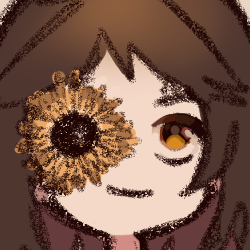
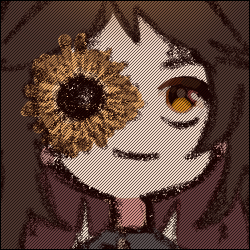
Add files via upload

diff --git a/fanart/pages/BeatumPopcorn/BeautifulWhiskey.html b/fanart/pages/BeatumPopcorn/BeautifulWhiskey.html
@@ -1,0 +1,119 @@
+<!DOCTYPE html>
+<html>
+<head>
+<style>
+ body {
+  background-image: url("../../../images/fanartbackgrounds/beatumbackground07.png");
+  background-size: cover;
+  background-attachment: fixed;
+  }
+
+ .headercontainer {
+  display: flex;
+  text-align: left;
+  }
+
+  div.wrapper {
+  flex: 1;
+  }
+
+ .headerpfp {
+  float: left;
+  margin-left: 4.50%;
+  margin-right: 1%;
+  margin-top: 0.80%;
+  }
+ 
+ .signature {
+  text-align: right;
+  font-style: italic;
+  margin-right: 4.50%;
+  }
+ </style>
+<meta name="viewport" content="width=device-width, initial-scale=1" />
+<meta property="og:title" content="June S. Sai.net: Beautiful Whiskey" />
+<meta property="og:url" content="https://junessai.net/" />
+<meta property="og:image" content="https://junessai.net/images/badasslogo.png" />
+<meta property="og:description" content="He is the most beautiful, yet despicable man you'll ever meet in your life." />
+<title>Beautiful Whiskey</title>
+<link rel="stylesheet" href="../../../style.css"> 
+<link rel="icon" type="image/png" href="../../../images/favicon.png">
+</head>
+
+<body>
+<div class="logocontainer">
+ <a href="../../../index.html">
+ <img src="../../../images/badasslogo.png" class="logo"></a>
+ </div>
+
+<div id="buttoncontainer" class="buttoncontainer">
+</div>
+
+<script src="../../../js/menu4.js"></script>
+
+<div>
+<div class="headercontainer">
+<div class="wrapper">
+<img src="../../images/PFPs/JuneSSaiPFP2.png" class="headerpfp">
+<h1 style="text-align:left;">Beautiful Whiskey</h1>
+<p style="text-align:left;">Posted on November 17, 2022, 22:35</p>
+<p style="text-align:left;">Last updated on November 17, 2022, 22:35</p>
+<p style="text-align:left;">Written By June S. Sai</p>
+</div>
+</div>
+<br>
+<a href="../../images/BeatumPopcorn/BeautifulWhiskey01.png" target="_blank">
+<img src="../../images/BeatumPopcorn/BeautifulWhiskey01.png" width="1000"></a>
+<br>
+<a href="../../images/BeatumPopcorn/BeautifulWhiskey02.png" target="_blank">
+<img src="../../images/BeatumPopcorn/BeautifulWhiskey02.png" width="1000"></a>
+<br>
+<a href="../../images/BeatumPopcorn/BeautifulWhiskey03.png" target="_blank">
+<img src="../../images/BeatumPopcorn/BeautifulWhiskey03.png" width="1000"></a>
+<br>
+<a href="../../images/BeatumPopcorn/BeautifulWhiskey04.png" target="_blank">
+<img src="../../images/BeatumPopcorn/BeautifulWhiskey04.png" width="1000"></a>
+<h1>June's Comment</h1>
+<p>It's been a while since I updated this section, but it shouldn't be a surprise that once again</p>
+<p>it's BeatumPopcorn doing fanart of my character considering that 90% of the Fanart Section</p>
+<p>is mostly his art, and as usual, he keeps blowing my mind on how good the stuff he makes looks.</p>
+<br>
+<p>He's been into a "Manga Mood" he told me, and he decided to draw Big Whiskey in a very manga style</p>
+<p>and it looks absolutely fucking brilliant</p>
+<br>
+<p>Big Whiskey was always supposed to be a depressing/melancholic character since he's supposed to be</p>
+<p>a more interesting version of me. He was made to have a very friendly and bright appearance that would</p>
+<p>heavily contrast with his rather abrasive and depressive personality and overall mood, and somehow</p>
+<p>I think Beatum does a better job at presenting this than I ever could</p>
+<br>
+<p>He mentioned himself that he likes drawing my character exactly due to the fact that Big Whiskey</p>
+<p>is very melancholic, he likes how sad he is, and Beatum captures this feeling perfectly</p>
+<br>
+<p>I'm just staring at this, and I'm just amazed how much sentiment he put into this piece</p>
+<p>I just look into his face, and the little smile and his beady eyes makes it feel like someone</p>
+<p>trying to hide hurt under a fake smile, and I fucking love it</p>
+<p>The way he managed to make the messy hair he has feel more natural while still retaining the shape</p>
+<p>I usually draw Big Whiskey with, and the sketchy line work, this is all pretty briliant</p>
+<br>
+<p>This is legitimately one of my favorite pieces I've ever received, and since I'm already in a very</p>
+<p>sad mood, it fits me perfectly.</p>
+<br>
+<p>I apologize if I couldn't say more, my head's spinning as of writting this, and I need some rest</p>
+<p>But don't you worry, there is more to come</p>
+<br>
+<p>But other than that, that's it for now, I'll see you when I close my eyes.</p>
+<br>
+<p class="signature" style="text-decoration:underline;">Still Tired</p>
+<p class="signature">-June S. Sai</p>
+</div>
+
+</div>
+<div class="buttoncontainer">
+<a href="../../../fanart/fanartmain.html">
+<img src="../../../images/buttons/fanartbutton.png" class="button"></a>
+</div>
+
+<!--Do you ever wonder why people never like you the same way you do them?-->
+  
+  </body>
+</html>

diff --git a/fanart/pages/BeatumPopcorn/MangaWhiskey.html b/fanart/pages/BeatumPopcorn/MangaWhiskey.html
@@ -1,0 +1,106 @@
+<!DOCTYPE html>
+<html>
+<head>
+<style>
+ body {
+  background-image: url("../../../images/fanartbackgrounds/beatumbackground07.png");
+  background-size: cover;
+  background-attachment: fixed;
+  }
+
+ .headercontainer {
+  display: flex;
+  text-align: left;
+  }
+
+  div.wrapper {
+  flex: 1;
+  }
+
+ .headerpfp {
+  float: left;
+  margin-left: 4.50%;
+  margin-right: 1%;
+  margin-top: 0.80%;
+  }
+ 
+ .signature {
+  text-align: right;
+  font-style: italic;
+  margin-right: 4.50%;
+  }
+ </style>
+<meta name="viewport" content="width=device-width, initial-scale=1" />
+<meta property="og:title" content="June S. Sai.net: Manga Whiskey" />
+<meta property="og:url" content="https://junessai.net/" />
+<meta property="og:image" content="https://junessai.net/images/badasslogo.png" />
+<meta property="og:description" content="Funnily enough, I rarely read anything." />
+<title>Manga Whiskey</title>
+<link rel="stylesheet" href="../../../style.css"> 
+<link rel="icon" type="image/png" href="../../../images/favicon.png">
+</head>
+
+<body>
+<div class="logocontainer">
+ <a href="../../../index.html">
+ <img src="../../../images/badasslogo.png" class="logo"></a>
+ </div>
+
+<div id="buttoncontainer" class="buttoncontainer">
+</div>
+
+<script src="../../../js/menu4.js"></script>
+
+<div>
+<div class="headercontainer">
+<div class="wrapper">
+<img src="../../images/PFPs/JuneSSaiPFP2.png" class="headerpfp">
+<h1 style="text-align:left;">Manga Whiskey</h1>
+<p style="text-align:left;">Posted on November 17, 2022, 22:35</p>
+<p style="text-align:left;">Last updated on November 17, 2022, 22:35</p>
+<p style="text-align:left;">Written By June S. Sai</p>
+</div>
+</div>
+<br>
+<a href="../../images/BeatumPopcorn/MangaWhiskey01.png" target="_blank">
+<img src="../../images/BeatumPopcorn/MangaWhiskey01.png" width="1000"></a>
+<br>
+<a href="../../images/BeatumPopcorn/MangaWhiskey02.png" target="_blank">
+<img src="../../images/BeatumPopcorn/MangaWhiskey02.png" width="1000"></a>
+<h1>June's Comment</h1>
+<p>Here we are again, and once again, it's Beatum bringing me more fanart stuff</p>
+<p>And you remember in the last post he said he was in a manga mood?</p>
+<br>
+<p>We've gone full anime this time</p>
+<br>
+<p>I absolutely love Big Whiskey with his hair tied, he looks incredibly cool with it</p>
+<p>and I also keep forgetting to mention it, but Beatum always simplifies his jacket whenever</p>
+<p>he draws him, there's no hood anymore, neither there are the headphones and the little strings either</p>
+<p>Ironically, despite removing details, his jacket feels more futuristic than the one I draw him with</p>
+<p>It looks really dope.</p>
+<br>
+<p>The other characters were designed on the spot by Beatum, and they all look incredibly sick</p>
+<p>Although I wish Caira was in here too</p>
+<br>
+<p>Oh, and here's a thing that my good friend Sage made with this art</p>
+<a href="../../images/BeatumPopcorn/MangaWhiskeySageThing.png" target="_blank">
+<img src="../../images/BeatumPopcorn/MangaWhiskeySageThing.png" width="1000"></a>
+<p>I have yet to turn Sage into a red paste for this one.</p>
+<br>
+<p>But other than that, that's it</p>
+<p>I'll see you when I stop crying.</p>
+<br>
+<p class="signature" style="text-decoration:underline;">Still Fighting</p>
+<p class="signature">-June S. Sai</p>
+</div>
+
+</div>
+<div class="buttoncontainer">
+<a href="../../../fanart/fanartmain.html">
+<img src="../../../images/buttons/fanartbutton.png" class="button"></a>
+</div>
+
+<!--Empty heart, full head.-->
+  
+  </body>
+</html>

diff --git a/fanart/fanartmain.html b/fanart/fanartmain.html
@@ -3,7 +3,7 @@
 <head>
 <style>
  body {
-  background-image: url("../images/fanartbackgrounds/ramenwaterbottlebackground.png");
+  background-image: url("../images/fanartbackgrounds/beatumbackground07.png");
   background-size: cover;
   background-attachment: fixed;
   }
@@ -53,7 +53,7 @@
 
 <div>
 <h1>Fanart Section</h1>
-<p>Last Update: September 29, 2022, 20:20<span class="NewText"> (New!)</span></p>
+<p>Last Update: November 17, 2022, 22:35<span class="NewText"> (New!)</span></p>
   <br>
   <p>"Oh yeah, Big Whiskey is looking pretty HD" -Octo</p>
   <br>
@@ -65,6 +65,12 @@
 	<h1>BeatumPopcorn</h1>
 	<p><a href="https://beatumpopcorn.newgrounds.com/" target="_blank" class="hyperlink">Newgrounds</a><span>,</span>
 	<span><a href="https://twitter.com/BeatumPopcorn/" target="_blank" class="hyperlink">Twitter</span></p>
+
+        <a href="../fanart/pages/BeatumPopcorn/MangaWhiskey.html">
+	<img src="../fanart/thumbs/BeatumPopcorn/MangaWhiskeyThumb.png" class="artthumbs"></a>
+
+        <a href="../fanart/pages/BeatumPopcorn/BeautifulWhiskey.html">
+	<img src="../fanart/thumbs/BeatumPopcorn/BeautifulWhiskeyThumb.png" class="artthumbs"></a>
 
 	<a href="../fanart/pages/BeatumPopcorn/BreadGameWhiskey.html">
 	<img src="../fanart/thumbs/BeatumPopcorn/BreadGameWhiskeyThumb.png" class="artthumbs"></a>
